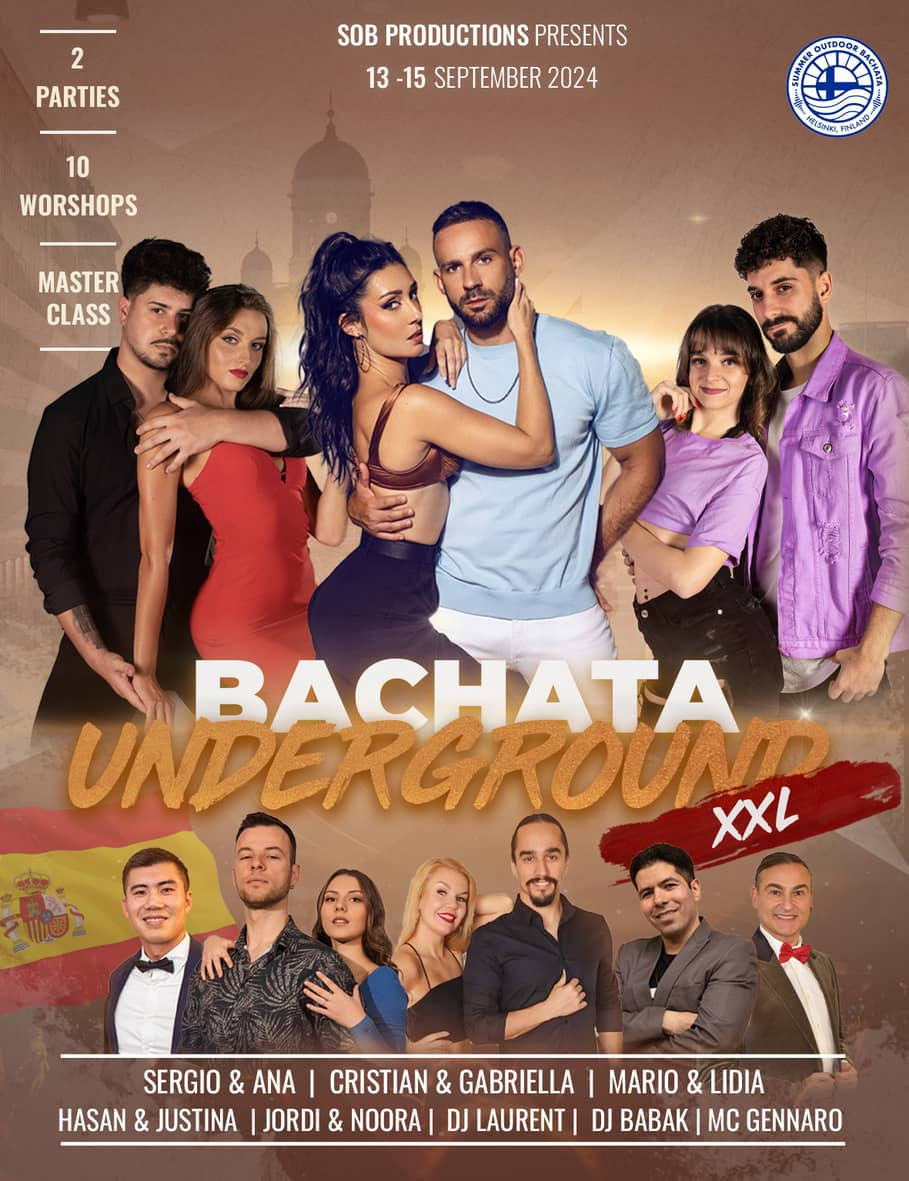
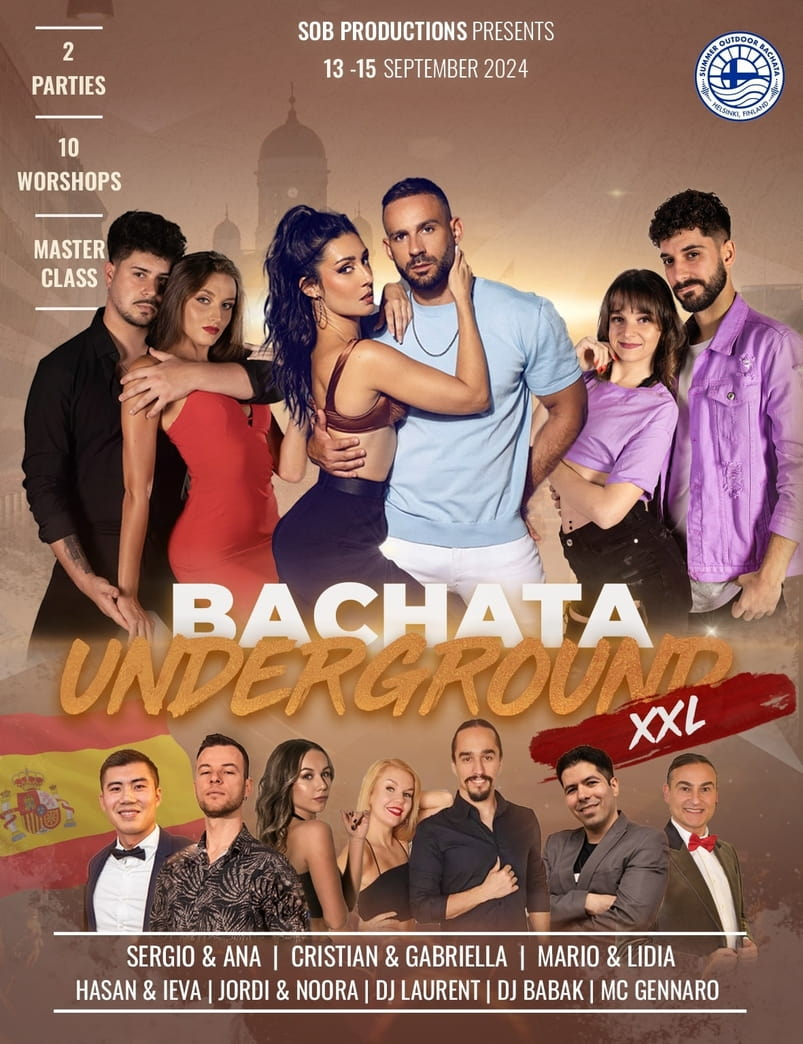
update image

Changed region(s): [[0.0623, 0.6743, 0.934, 0.9808], [0.8717, 0.0307, 0.9963, 0.1226]]

diff --git a/src/pages/tickets.tsx b/src/pages/tickets.tsx
@@ -31,7 +31,7 @@ export default function Tickets() {
               <li className="pb-2">🌟 Sergio and Ana (2h)</li>
               <li className="pb-2">🌟 Cristian and Gabriella (2h)</li>
               <li className="pb-2">🌟 Mario and Lidia (3h)</li>
-              <li className="pb-2">🌟 Hasan and Justina (2h)</li>
+              <li className="pb-2">🌟 Hasan and Ieva (2h)</li>
               <li className="pb-2">🌟 Jordi and Noora (1h)</li>
             </ul>
 
@@ -61,15 +61,15 @@ export default function Tickets() {
 
           <PriceRow showPerson title="Super Early Bird Couple Pass" price={174}>
             <p className="text-neutral-500 text-sm">
-              <span>Only 5 couple passes available!</span>
-              <br />
-              {/* <span className="font-bold text-red-500">SOLD OUT!</span> */}
+              {/* <span>Only 5 couple passes available!</span> */}
+              {/* <br /> */}
+              <span className="font-bold text-red-500">SOLD OUT!</span>
             </p>
           </PriceRow>
 
           <PriceRow showPerson title="Early Bird Couple Pass" price={186}>
             <p className="text-neutral-500 text-sm">
-              <span>Only 5 couple passes available!</span>
+              <span>Only 4 couple passes available!</span>
               <br />
               {/* <span className="font-bold text-red-500">SOLD OUT!</span> */}
             </p>
@@ -77,9 +77,9 @@ export default function Tickets() {
 
           <PriceRow title="Early Bird Full Pass Follower" price={93}>
             <p className="text-neutral-500 text-sm">
-              <span>Only 8 available!</span>
-              <br />
-              {/* <span className="font-bold text-red-500">SOLD OUT!</span> */}
+              {/* <span>Only 8 available!</span> */}
+              {/* <br /> */}
+              <span className="font-bold text-red-500">SOLD OUT!</span>
             </p>
           </PriceRow>
 
@@ -91,7 +91,7 @@ export default function Tickets() {
             </p>
           </PriceRow>
 
-          {/* <PriceRow title="Full Pass Leader" price={99}>
+          <PriceRow title="Full Pass Leader" price={99}>
             <p className="text-neutral-500 text-sm"></p>
           </PriceRow>
 
@@ -101,7 +101,7 @@ export default function Tickets() {
 
           <PriceRow showPerson title="Couple Pass Leader/Follower" price={190}>
             <p className="text-neutral-500 text-sm"></p>
-          </PriceRow> */}
+          </PriceRow>
 
           {/* <PriceRow title="Party Pass" price={40}>
             <p className="text-neutral-500 text-sm">Access to friday, saturday and sunday parties</p>

diff --git a/src/data/artists.ts b/src/data/artists.ts
@@ -55,7 +55,7 @@ export const artistsData: Record<ArtistCode, ArtistData> = {
   },
   ha: {
     code: 'ha',
-    name: 'Hasan and Justina',
+    name: 'Hasan and Ieva',
     description:
       "Hasan is a dancer and teacher from Turkey. He's currently based in Vilnius, Lithuania. You will see him in many international festivals. He taught already once at the Underground, and we wanted to bring him back!",
     image: Hasan,
